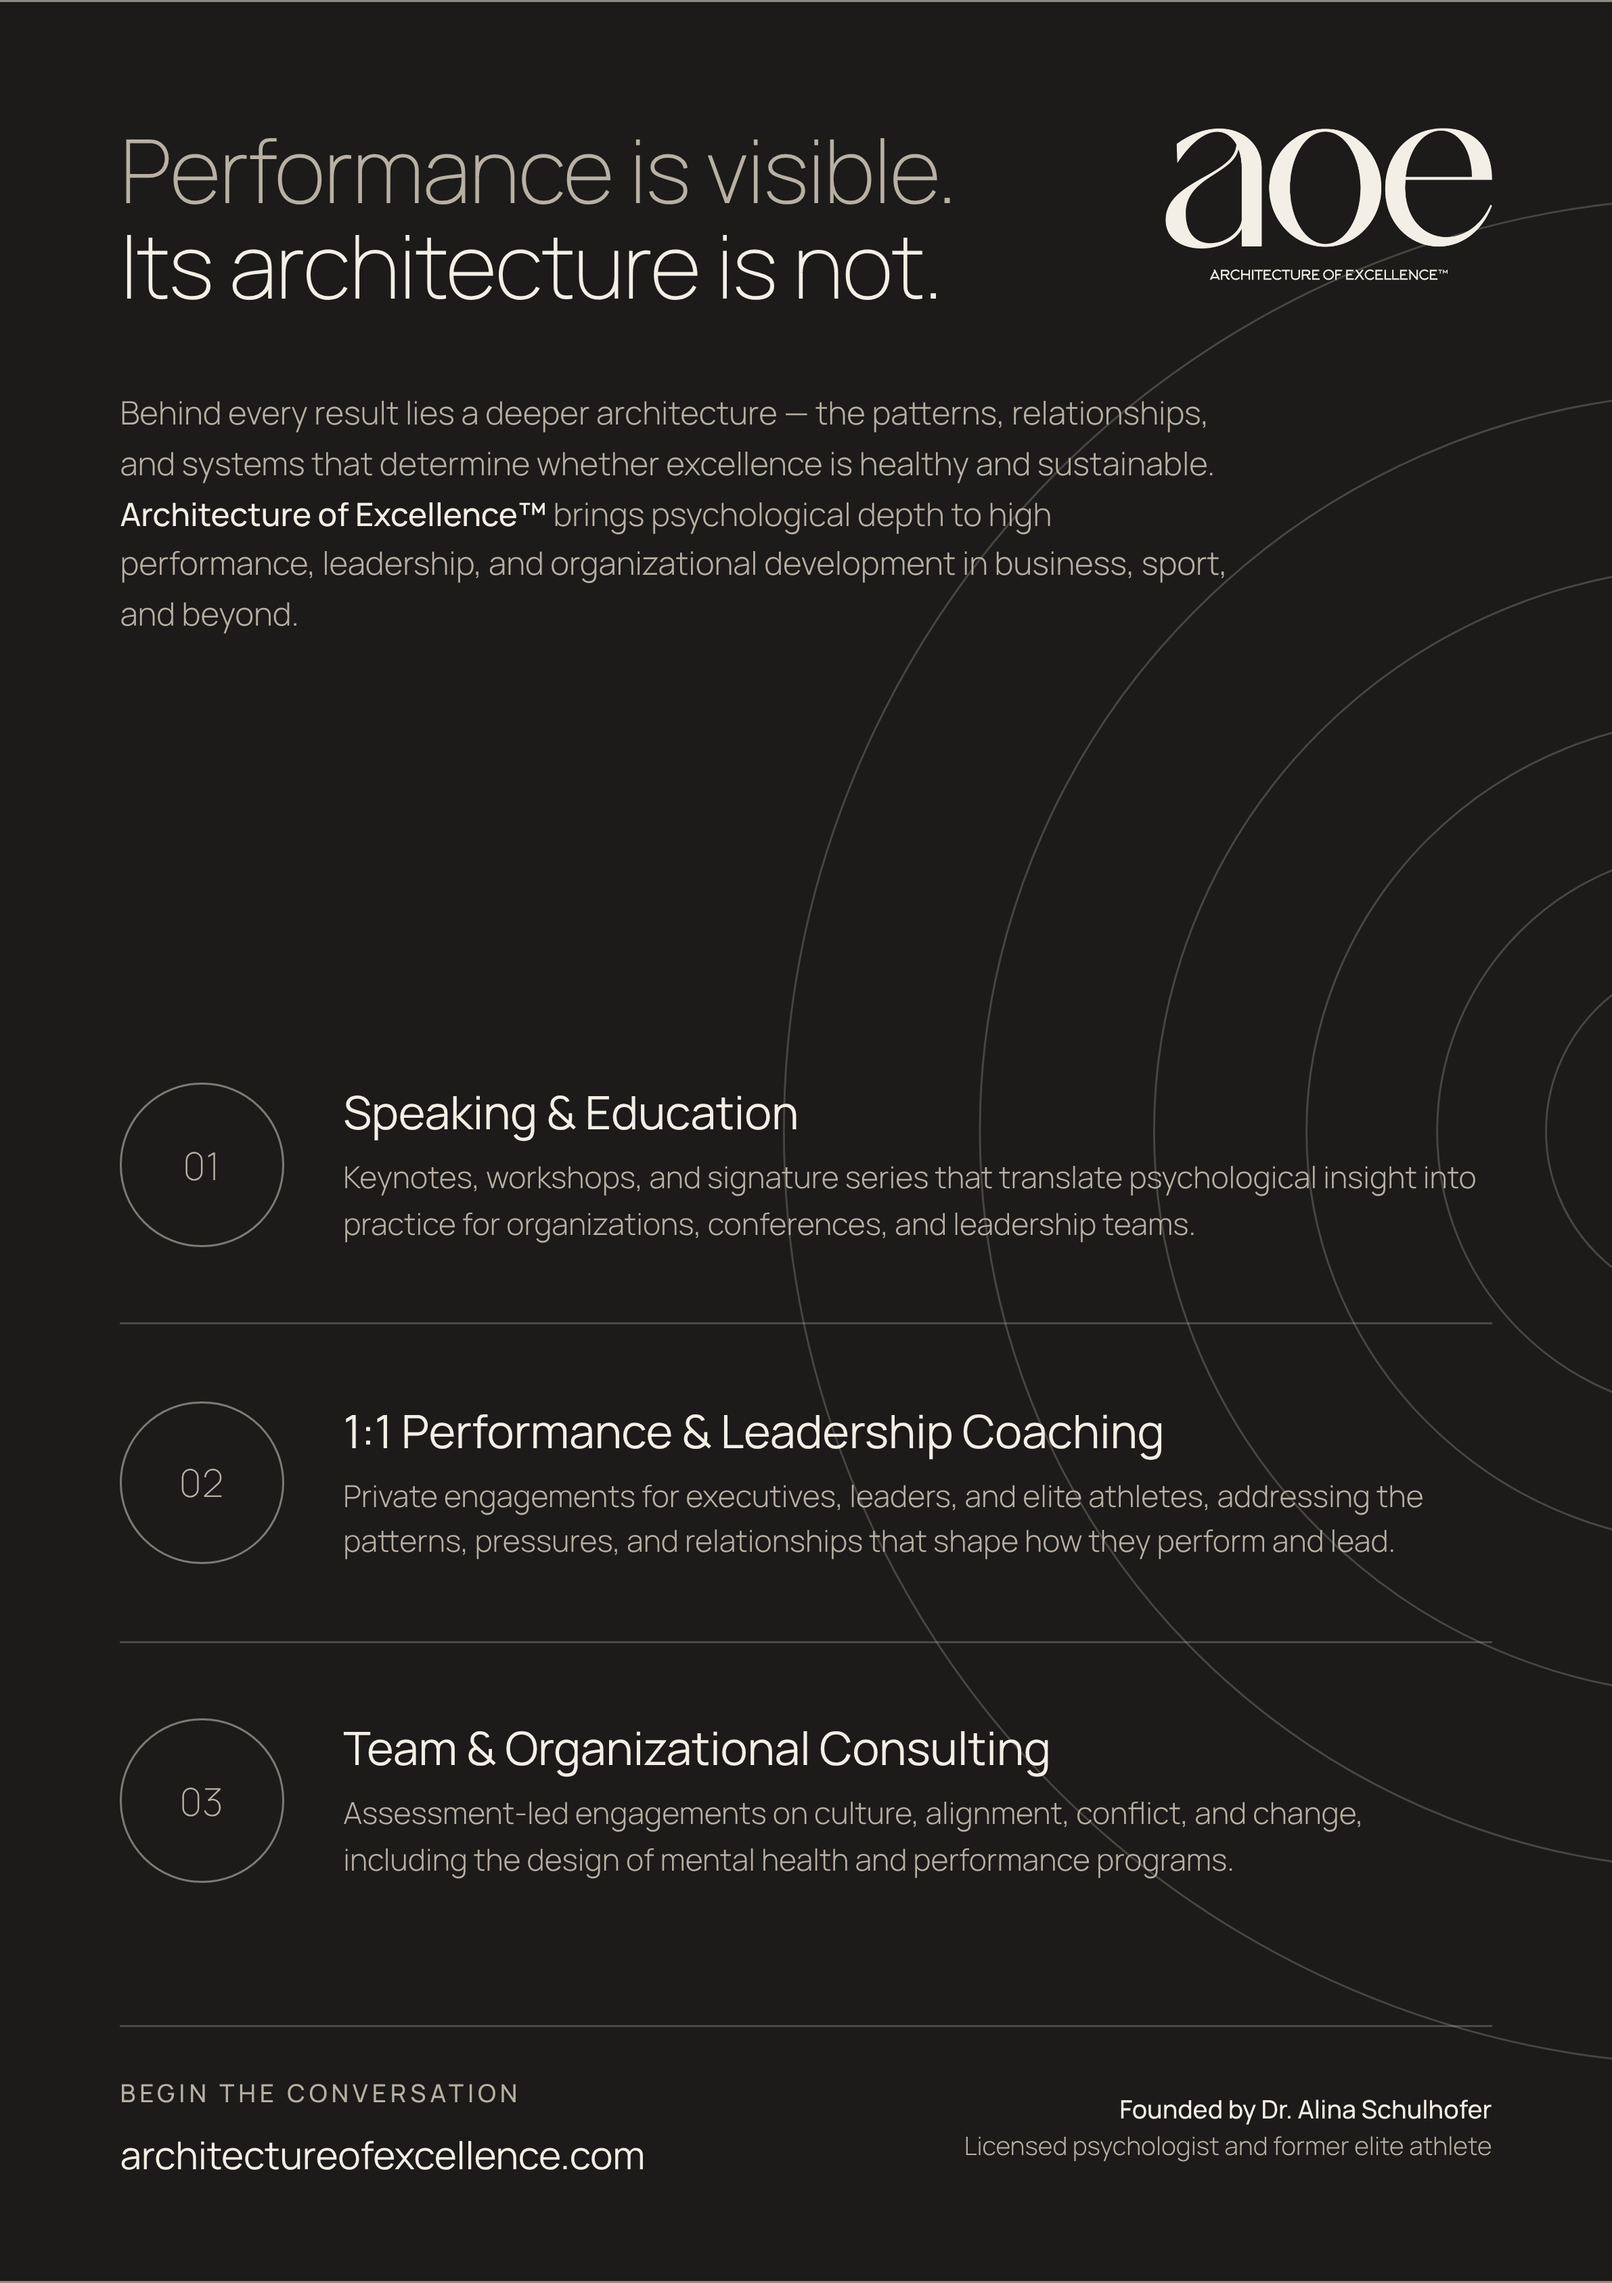
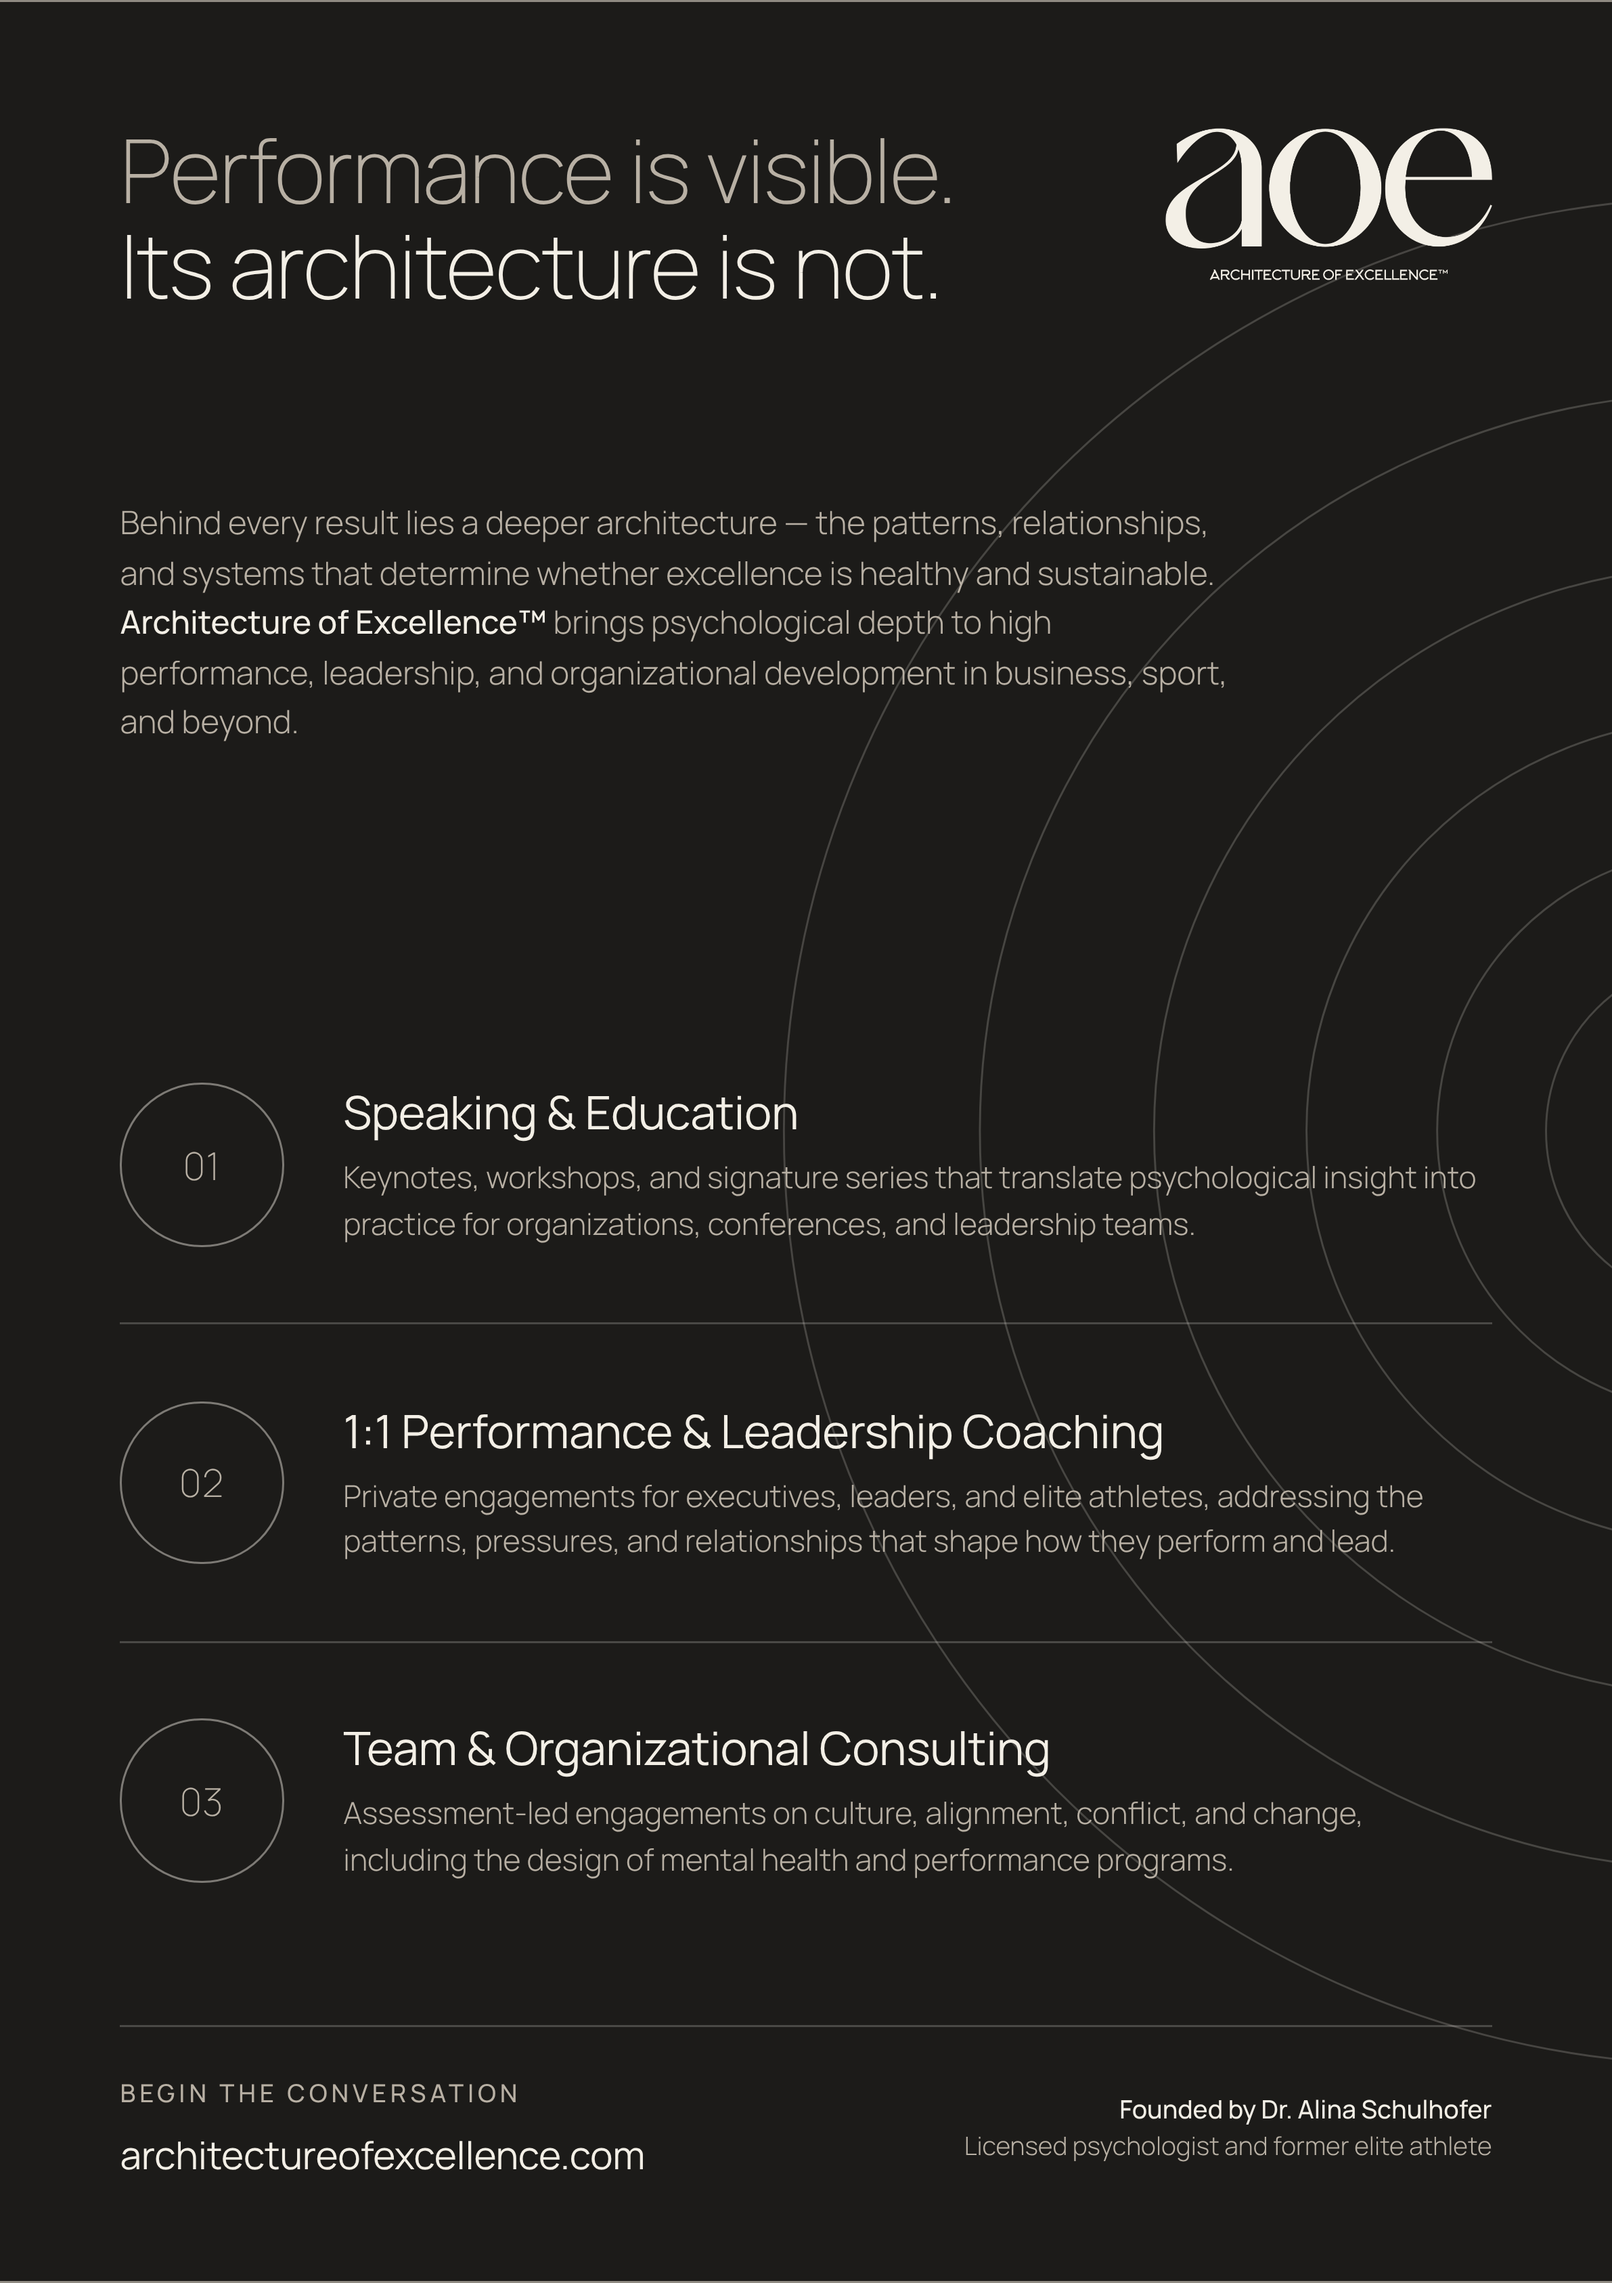
Concept 2: lower the opening paragraph to tighten the gap above services
Claude-Session: https://claude.ai/code/session_016XVBEBNhyuoZMVmUbvV6yP

Changed region(s): [[0.0621, 0.1557, 0.7456, 0.3114], [0.3107, 0.1557, 0.3417, 0.1868]]

diff --git a/ads/panam-aquatics-2026/concept-2-ripple.html b/ads/panam-aquatics-2026/concept-2-ripple.html
@@ -29,7 +29,7 @@
   .c2 .headline { font-size: 23pt; }
   .c2 .headline .muted { color: var(--fg2); }
 
-  .c2 .lede { grid-area: lede; margin-top: 7mm; font-size: 8.4pt; color: var(--fg2); max-width: 104mm; }
+  .c2 .lede { grid-area: lede; margin-top: 17mm; font-size: 8.4pt; color: var(--fg2); max-width: 104mm; }
   .c2 .lede strong { font-weight: 500; color: var(--fg); }
 
   .c2 .services { grid-area: svcs; align-self: end; margin-top: 6mm; }
